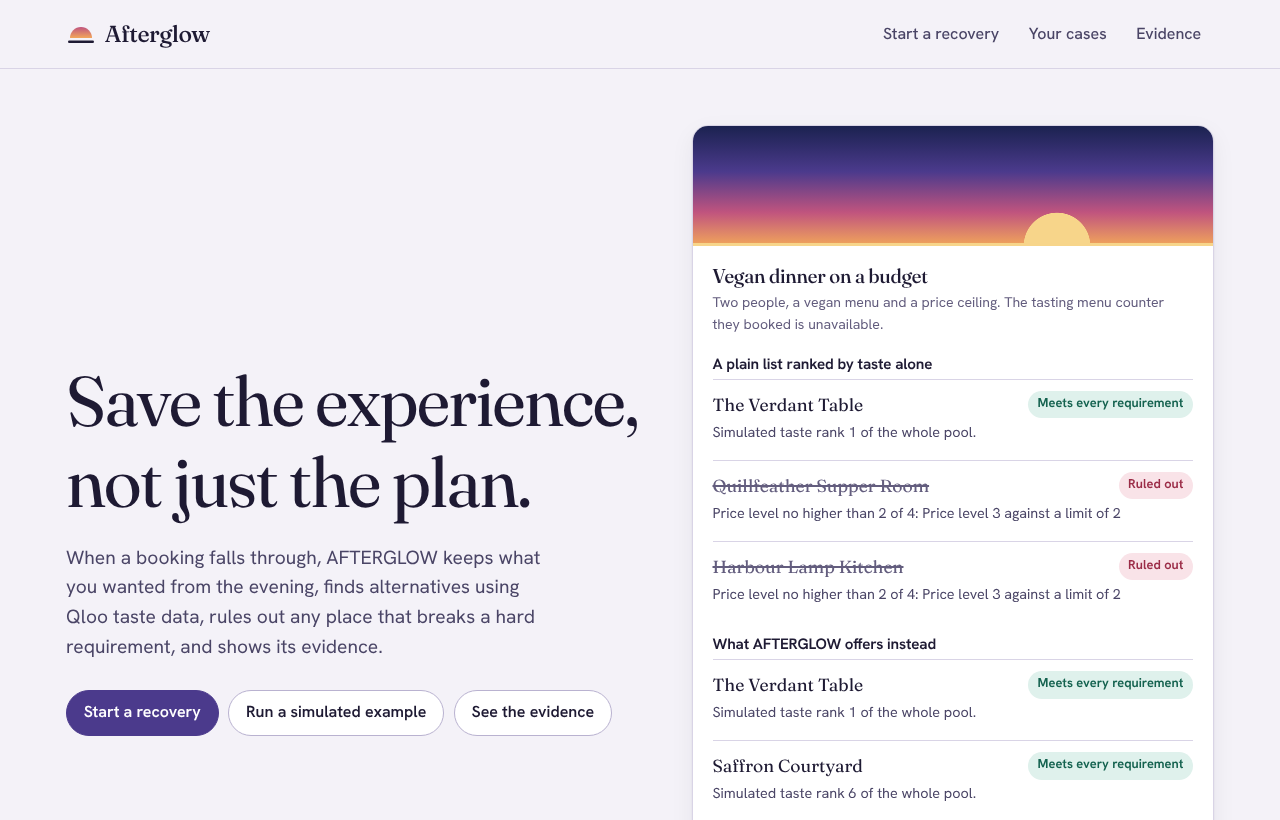
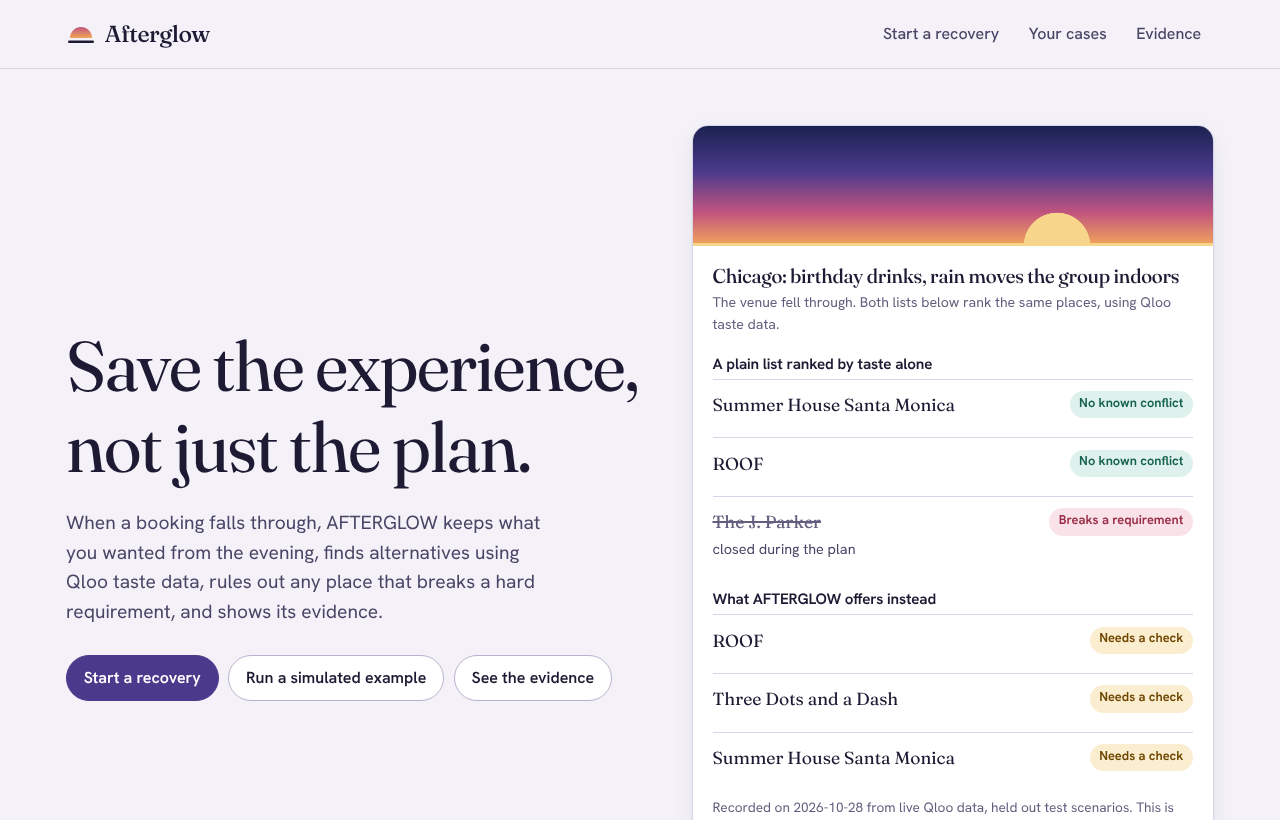
Rewrite the README around what the evidence shows and where it stops
The verification table is replaced by the held out comparison, its miss and its limits,
a shorter description of the method, and an index of the documentation. A test fails if
a figure in the README stops matching the recorded results. The screenshots are
refreshed and one of the baseline table is added.

diff --git a/tests/evaluation/readme-numbers.test.ts b/tests/evaluation/readme-numbers.test.ts
@@ -1,0 +1,61 @@
+import { readFileSync } from 'node:fs';
+import { resolve } from 'node:path';
+import { describe, expect, it } from 'vitest';
+import type { BaselineResultsFile } from '../../src/evaluation/baseline-report.js';
+
+const root = resolve(import.meta.dirname, '../..');
+const readme = readFileSync(resolve(root, 'README.md'), 'utf8').replace(/\s+/gu, ' ');
+const test = JSON.parse(
+  readFileSync(resolve(root, 'results/baselines-test.json'), 'utf8'),
+) as BaselineResultsFile;
+const s = test.summary;
+const two = (value: number | null | undefined) => (value ?? NaN).toFixed(2);
+const ungated = (arm: string) => s.arms.find((a) => a.arm === arm && !a.gated)?.violating;
+
+describe('README figures', () => {
+  it('match the recorded test comparison', () => {
+    const rate = (arm: string) => `${ungated(arm)?.count} of ${ungated(arm)?.total}`;
+    expect(readme).toContain(`${rate('taste_only')} scenarios for Qloo taste alone`);
+    expect(readme).toContain(`${rate('popular')} for popularity`);
+    expect(readme).toContain(`${rate('nearest')} for nearest first`);
+    expect(readme).toContain(`${rate('random')} for random`);
+    expect(readme).toContain(`${s.hits} of ${s.hits + s.misses + s.notEvaluated}`);
+    expect(s.misses).toBe(1);
+  });
+
+  it('match the answer changes and the lift', () => {
+    const nearest = s.topChoiceDiffers.nearest;
+    const popular = s.topChoiceDiffers.popular;
+    const taste = s.topChoiceDiffers.tasteOnly;
+    expect(readme).toContain(`from nearest first in ${nearest?.count} of ${nearest?.total}`);
+    expect(readme).toContain(`from popularity in ${popular?.count} of ${popular?.total}`);
+    expect(readme).toContain(
+      `In ${taste?.count} of ${taste?.total} scenarios the first place differs`,
+    );
+    const lift = s.paired.find((p) => p.versus === 'nearest' && p.measure === 'lift')?.difference;
+    expect(readme).toContain(
+      `${two(lift?.mean)} standard deviations above nearest first (${two(lift?.low)} to ${two(lift?.high)})`,
+    );
+    const km = s.paired.find((p) => p.versus === 'taste_only' && p.measure === 'km')?.difference;
+    expect(readme).toContain(`${two(-(km?.mean ?? NaN))} km closer`);
+  });
+
+  it('match the vibe shares', () => {
+    const row = (arm: string, gated: boolean) =>
+      s.arms.find((a) => a.arm === arm && a.gated === gated);
+    expect(readme).toContain(
+      `(${two(row('afterglow', true)?.vibe?.mean)} against ${two(row('nearest', true)?.vibe?.mean)})`,
+    );
+  });
+
+  it('match the lists with no verified place', () => {
+    const lists = test.results.map((r) => r.gated.afterglow).filter((l) => l !== null);
+    const none = lists.filter((l) => l.verified === 0).length;
+    expect(readme).toContain(`In ${none} of the ${lists.length} scenarios with a gated list`);
+  });
+
+  it('does not use dashes or emojis in prose', () => {
+    expect(readme).not.toMatch(/—|–/u);
+    expect(readme).not.toMatch(/\p{Extended_Pictographic}/u);
+  });
+});

diff --git a/README.md b/README.md
@@ -1,79 +1,70 @@
 # AFTERGLOW
 
+[![CI](https://github.com/hudasol/afterglow/actions/workflows/ci.yml/badge.svg)](https://github.com/hudasol/afterglow/actions/workflows/ci.yml)
+
 **Save the experience, not just the plan.**
 
-AFTERGLOW is a culturally intelligent experience recovery agent. When a booking falls through, a venue closes or the weather turns, it keeps what the plan was for, uses Qloo taste data to find alternatives, rules out any place that breaks a hard requirement, and shows the evidence behind every suggestion. It never books anything. A recovery is confirmed only when the person says so.
+When a booking falls through, a venue closes or the weather turns, AFTERGLOW keeps what the plan was for, uses [Qloo](https://qloo.com) taste data to find alternatives, rules out any place that breaks a hard requirement, and shows the evidence behind every suggestion. It never books anything. A recovery is confirmed only when the person says so.
 
+Hosted demo: https://afterglow-gsc4.onrender.com (free plan; the first request after a pause can take about half a minute).
 Built by Team Kanban (Huda Mueen Qureshi, Awaiz Ahmed) for the Qloo Agentic Hackathon.
 
-## Verification status
+![The landing page with a recorded example from live Qloo data](docs/screenshots/01-landing.png)
 
-This table states what has and has not been verified. It is updated whenever the facts change.
+## Why it exists
 
-| Item                                            | Status                                                                                                                                                                                                                                                                                                                                                                                                                                                                                 |
-| ----------------------------------------------- | -------------------------------------------------------------------------------------------------------------------------------------------------------------------------------------------------------------------------------------------------------------------------------------------------------------------------------------------------------------------------------------------------------------------------------------------------------------------------------------- |
-| Unit and integration tests                      | Passing (`npm test`)                                                                                                                                                                                                                                                                                                                                                                                                                                                                   |
-| Browser tests with accessibility checks         | Passing (`npm run test:e2e`)                                                                                                                                                                                                                                                                                                                                                                                                                                                           |
-| Type check, lint, formatting                    | Passing (`npm run check`)                                                                                                                                                                                                                                                                                                                                                                                                                                                              |
-| Continuous integration                          | Passing on GitHub Actions for commit fb9341b: checks, build and browser tests (`.github/workflows/ci.yml`)                                                                                                                                                                                                                                                                                                                                                                             |
-| Offline evaluation on the simulated catalogue   | Run, results in [docs/EVALUATION_RESULTS.md](docs/EVALUATION_RESULTS.md)                                                                                                                                                                                                                                                                                                                                                                                                               |
-| Live Qloo smoke test (`npm run qloo:smoke`)     | Run on 25 October 2026 from GitHub Actions with the team's personal key held as a repository secret. 16 requests, verdict **go**. Redacted report: [data/evaluation/smoke-2026-10-25.json](data/evaluation/smoke-2026-10-25.json)                                                                                                                                                                                                                                                      |
-| Live Qloo evaluation                            | Preregistered in [docs/PREREGISTRATION.md](docs/PREREGISTRATION.md) and run on real Qloo data over 20 scenarios in five cities. First run, the registered result: 9 of 12 predictions met and 3 missed, in [docs/EVALUATION_LIVE.md](docs/EVALUATION_LIVE.md). Second run, after two product fixes: the same 9 and 3, in [docs/EVALUATION_LIVE_SECOND_RUN.md](docs/EVALUATION_LIVE_SECOND_RUN.md). Notes on the misses: [docs/EVALUATION_LIVE_NOTES.md](docs/EVALUATION_LIVE_NOTES.md) |
-| OpenStreetMap place facts (`npm run osm:smoke`) | Implemented and tested with invented responses. **Not yet run successfully against real OpenStreetMap data.** The public Overpass servers did not answer from GitHub Actions on 25 October 2026. It needs no key. See [docs/OPENSTREETMAP.md](docs/OPENSTREETMAP.md)                                                                                                                                                                                                                   |
-| Hosted demo                                     | Deployed on Render from commit fb9341b at https://afterglow-gsc4.onrender.com, with live Qloo configured through a server side variable. On 25 October 2026 a live London case opened and ranked in 9 seconds on it, and its connection check was accepted by Qloo. Its OpenStreetMap check timed out. The free plan sleeps when idle, so the first request after a pause can take a minute                                                                                            |
+A plan that falls apart usually ends in a scramble: a list of nearby places ranked by popularity, some of which cannot work at all because they are closed, too far, too expensive or too small for the group. Recommenders rank by taste or popularity and treat practical needs as an afterthought. AFTERGLOW checks the requirements first, ranks what is left with Qloo, and says plainly when a fact is unknown.
 
-The live rows describe runs made by the team that wrote the method, on plans the team chose, and no people took part. They show how the pipeline behaves on real Qloo data and not how often it would help in general. Demo mode uses an invented catalogue and says so on every screen.
+## What the evidence shows
 
-## Screenshots
+The comparison was registered before it was run and judged by an independent oracle. On 20 scenarios in five cities that the product was not developed on (Chicago, Los Angeles, Berlin, Sydney, Toronto), all ranked from the same Qloo pools in one run on 28 October 2026:
 
-The case screenshots come from demo mode. The city, the venues and the taste scores are simulated, and every screen says so. The last one shows the recorded results of the live evaluation, which hold no venue data. None contains a credential or personal data.
+| Question                                                        | Result                                                                                                                                                                                                                                      |
+| --------------------------------------------------------------- | ------------------------------------------------------------------------------------------------------------------------------------------------------------------------------------------------------------------------------------------- |
+| Does a plain list put a place that breaks a requirement on top? | Without the gate, the top three held one in 18 of 20 scenarios for Qloo taste alone, 20 of 20 for popularity, 10 of 20 for nearest first and 18 of 20 for random. AFTERGLOW offered none in the 19 scenarios where it had a place to offer. |
+| Does the Qloo signal change the answer?                         | The top choice differs from nearest first in 14 of 19 scenarios and from popularity in 15 of 19. The Qloo affinity of the top three is 0.74 standard deviations above nearest first (0.51 to 0.97).                                         |
+| Does blending closeness change what Qloo alone would choose?    | In 6 of 19 scenarios the first place differs. **This missed its prediction** of at most 20 percent. The cost in affinity is small and the list is 0.43 km closer on average.                                                                |
+| Were the predictions met?                                       | 13 of 14, one missed, all reported in [docs/EVALUATION_BASELINES_TEST.md](docs/EVALUATION_BASELINES_TEST.md).                                                                                                                               |
 
-| Landing                                                                                               | Recovery                                                                                          |
-| ----------------------------------------------------------------------------------------------------- | ------------------------------------------------------------------------------------------------- |
-| ![Landing page with a gate result from the simulated catalogue](docs/screenshots/01-landing.png)      | ![A shortlist of places that passed the gate](docs/screenshots/03-recovery.png)                   |
-| **A place ruled out, with the reason**                                                                | **Taste On against Taste Off**                                                                    |
-| ![A place ruled out with the exact requirement it failed](docs/screenshots/04-ruled-out.png)          | ![Order with and without taste over the same eligible places](docs/screenshots/05-comparison.png) |
-| **What the agent observed, did and decided**                                                          | **What was sent to the taste provider**                                                           |
-| ![The agent trace of a search cycle](docs/screenshots/07-agent-trace.png)                             | ![The evidence page listing the redacted request](docs/screenshots/06-evidence.png)               |
-| **Preregistered live evaluation, with its misses**                                                    |                                                                                                   |
-| ![Predictions and results of the two live runs on Qloo data](docs/screenshots/08-live-evaluation.png) |                                                                                                   |
+What this does not show, and the notes say so at length in [docs/EVALUATION_BASELINES_NOTES.md](docs/EVALUATION_BASELINES_NOTES.md):
 
-## The problem
+- No person judged any list, so nothing here says that a group would enjoy a place more because AFTERGLOW offered it.
+- A language model with no Qloo data is not among the baselines, so it is not known whether AFTERGLOW outperforms one.
+- The same team wrote the method and chose the scenarios.
+- Most offered places still need the person's check. In 11 of the 19 scenarios with a gated list none of the three places was fully verified, because Qloo states opening hours, step free access and dietary options for only part of its places.
+- In one Los Angeles scenario all 40 places failed a requirement, so the gate left nothing to offer.
+- The requested vibe appears in the top three about as often as it does in a nearest first list (0.11 against 0.08).
 
-A plan that falls apart usually ends with a scramble: a list of nearby places ranked by popularity, none of which feel like the evening that was planned, and some of which cannot work at all because they are too far, too expensive, closed, or unable to seat the group. Recommendation lists optimise for taste or popularity and treat practical needs as an afterthought.
+The earlier evaluation of the pipeline on real Qloo data, with its three missed predictions, is in [docs/EVALUATION_LIVE.md](docs/EVALUATION_LIVE.md).
 
-## How AFTERGLOW works
+## How it works
 
-1. **Intent Anchor.** The person describes the plan once: the occasion, the party, the time, what must survive, what the group likes, and the hard requirements. This is recorded as a fixed anchor and is never edited. Later disruptions and decisions are layered on top.
-2. **Qloo Taste Engine.** Names and vibes the group likes are matched to Qloo entities and tags. An exact match resolves. Anything else is shown to the person to choose from, and an uncertain match is never passed on.
-3. **Feasibility Gate.** Every candidate is checked against every hard requirement and receives a verdict for each one: pass, fail or unknown. A failure rules the place out. An unknown never passes. It becomes a question for the person. The gate is identical whether or not taste is used.
-4. **Recovery Orchestrator.** Disruptions, the person's own checks, declined options and relaxations are recorded as events on the case. When no place meets every requirement, AFTERGLOW offers the smallest sets of requirements the person could give up and waits for agreement.
-5. **Agent trace.** Every search cycle is shown as what the agent observed, planned, did and decided, and where it handed the decision back to the person. It is rebuilt from the recorded events. AFTERGLOW follows a fixed procedure and is not a chat model.
-6. **Persistent case history.** Each case is an append only event log in SQLite. The history tab shows every step in plain language.
+1. **Intent anchor.** The person describes the plan once: the occasion, the party, the time, what must survive, what the group likes and the hard requirements. It is recorded and never edited. Disruptions and decisions are layered on top.
+2. **Taste signals.** Names and vibes the group likes are matched to Qloo entities and tags. An exact match resolves. Anything else is shown to the person to choose from, and an uncertain match is never passed on.
+3. **Feasibility gate.** Every candidate is checked against every hard requirement and gets pass, fail or unknown. A fail rules the place out. An unknown never passes: it becomes a question for the person.
+4. **Orderings.** The eligible places are shown in three orders: nearest first, most popular first, and Taste On, which blends Qloo affinity with closeness. The pool and the gate are the same for all three.
+5. **Recovery.** Disruptions, the person's own checks, declined options and relaxations are recorded as events on the case. When no place meets every requirement, AFTERGLOW offers the smallest sets of requirements the person could give up and waits for agreement.
+6. **Agent trace.** Every search cycle is shown as what the agent observed, planned, did and decided, and where it handed the decision back. It is rebuilt from the recorded events. AFTERGLOW follows a fixed procedure and is not a chat model.
 
-Each fact in the interface carries a source tag: Qloo, OpenStreetMap, Simulated, You said, You checked, or Calculated here.
+Each fact in the interface carries a source tag: Qloo, OpenStreetMap, Simulated, You said, You checked or Calculated here. Demo mode uses an invented city and says so on every screen.
+
+| Recovery                                                                        | A place ruled out, with the reason                                                           |
+| ------------------------------------------------------------------------------- | -------------------------------------------------------------------------------------------- |
+| ![A shortlist of places that passed the gate](docs/screenshots/03-recovery.png) | ![A place ruled out with the exact requirement it failed](docs/screenshots/04-ruled-out.png) |
 
 ## Where Qloo is used
 
-- `/search` resolves names the group likes, and the venue that fell through, which is used as a taste signal so the search looks for places that share its audience. The person can turn this off.
-- `/v2/tags` with semantic search resolves vibes and genres, and the venue category tag.
-- `/v2/insights` returns the candidate places for a city, and ranks a fixed list of places by affinity to the group's signals and to the lost venue, with explainability when it is available.
+- `/search` resolves names the group likes, and the venue that fell through, which can serve as a taste signal so the search looks for places that share its audience.
+- `/v2/tags` resolves vibes and genres and the venue category tag.
+- `/v2/insights` returns the candidate places for a city, with the facts Qloo states for each, and ranks a fixed list of places by affinity to the group's signals. Each vibe is sent as up to three example places that carry it, because a bare tag gave every place the same score.
 
-Qloo results describe what groups of people tend to like. AFTERGLOW presents them that way and does not treat an affinity as a prediction about any person. The full workflow, parameters and data handling are in [docs/QLOO_INTEGRATION.md](docs/QLOO_INTEGRATION.md).
-
-## Where OpenStreetMap is used
-
-Qloo states opening hours, a wheelchair accessible entrance and dietary options for part of the places it returns, and AFTERGLOW reads exactly those. It does not state group capacity or covered seating. For live cases, and only for facts a plan insists on that Qloo left unknown, AFTERGLOW can look at OpenStreetMap by matching each place by name and position. A value is used only when it is clearly stated, it carries the tag it was read from, it never replaces a fact you checked, and a failure leaves the fact unknown. Only the public coordinates of venues are sent. Details, limits and the licence credit are in [docs/OPENSTREETMAP.md](docs/OPENSTREETMAP.md).
+Qloo describes what groups of people tend to like. AFTERGLOW presents affinities that way and never as a prediction about a person. Workflow, parameters and data handling: [docs/QLOO_INTEGRATION.md](docs/QLOO_INTEGRATION.md). OpenStreetMap can fill facts that Qloo leaves unknown for live cases. That lookup is implemented and tested with invented responses and has not yet run successfully against real data: [docs/OPENSTREETMAP.md](docs/OPENSTREETMAP.md).
 
 ## Use it from an MCP client
 
-The same workflow is available as MCP tools over stdio, so a model can open a case, ask the person the questions the gate raises, and record their answers. The rules are enforced by the application: unknown never passes, only the person's own word settles a fact, and nothing is booked. See [docs/MCP.md](docs/MCP.md).
+The same workflow is available as MCP tools over stdio, so a model can open a case, ask the person the questions the gate raises and record their answers. The rules are enforced by the application: unknown never passes, only the person's own word settles a fact, and nothing is booked. See [docs/MCP.md](docs/MCP.md).
 
-## Taste On and Taste Off
-
-For every case the interface can show three orderings of the same eligible places. Nearest first sorts by distance to the original venue, then price. Most popular first sorts by the provider's general popularity and uses none of the group's signals, which is what a plain list of well known places does. Taste On sorts by a recovery score that blends taste with closeness. The pool, the gate and the exclusions are identical in all three, so the only difference is the ordering rule. See [docs/EVALUATION.md](docs/EVALUATION.md) for the method and what it can and cannot show.
-
-## Quick start
+## Run it
 
 Requirements: Node.js 22.13 or newer. No other service is needed.
 
@@ -85,20 +76,11 @@ npm run build
 npm start
 ```
 
-Open http://127.0.0.1:8788. With no Qloo key the application runs in demo mode only, using the labelled simulated catalogue.
+Open http://127.0.0.1:8788. With no Qloo key the application runs in demo mode on the simulated catalogue. For development with reload run `npm run dev` and open http://127.0.0.1:5173.
 
-For development with hot reload run `npm run dev`, then open http://127.0.0.1:5173.
+To use live Qloo, request a hackathon key, copy `.env.example` to `.env` and set `QLOO_API_KEY`. Keys are personal: never commit or share one. The key is read only by the server and is never sent to the browser or written to a log or report. `npm run qloo:smoke` checks that it works.
 
-### Using live Qloo
-
-1. Request a hackathon key through the form on the Qloo hackathon page. Keys are personal. Never commit or share one.
-2. Copy `.env.example` to `.env` and set `QLOO_API_KEY`. The file is ignored by Git.
-3. Run `npm run qloo:smoke`. It checks that the key works, that entity and tag matching behave, and that rankings respond to different signals. It prints a verdict and writes a redacted report to `data/evaluation`.
-4. Restart the server. The Live Qloo option becomes available on the intake screen.
-
-The key is read only by the server. It is never sent to the browser, logged, or written to a report.
-
-## Configuration
+### Configuration
 
 | Variable                          | Default                          | Purpose                                                                                |
 | --------------------------------- | -------------------------------- | -------------------------------------------------------------------------------------- |
@@ -118,22 +100,21 @@ The key is read only by the server. It is never sent to the browser, logged, or 
 | `AFTERGLOW_CASE_TTL_HOURS`        | `48`                             | How long idle cases are kept                                                           |
 | `SERVE_WEB`                       | `true`                           | Serve the built interface from the API server                                          |
 
-## Commands
+OpenStreetMap variables are listed in `.env.example`.
 
-| Command              | What it does                                          |
-| -------------------- | ----------------------------------------------------- |
-| `npm run dev`        | API server and web dev server with reload             |
-| `npm run build`      | Build the interface to `web/dist`                     |
-| `npm start`          | Run the server                                        |
-| `npm test`           | Unit and integration tests                            |
-| `npm run test:e2e`   | Browser tests, including accessibility checks         |
-| `npm run check`      | Type check, lint, formatting check and tests          |
-| `npm run mcp`        | MCP server over stdio. See [docs/MCP.md](docs/MCP.md) |
-| `npm run eval`       | Offline evaluation on the simulated catalogue         |
-| `npm run qloo:smoke` | Live Qloo experiment. Needs `QLOO_API_KEY`            |
-| `npm run osm:smoke`  | Real data check for OpenStreetMap place facts. No key |
+### Commands
 
-Browser tests download nothing at run time but need a Playwright Chromium. If your Chromium is installed elsewhere, set `PLAYWRIGHT_CHROMIUM_PATH` to its executable.
+| Command                                | What it does                                                    |
+| -------------------------------------- | --------------------------------------------------------------- |
+| `npm run dev`                          | API server and web dev server with reload                       |
+| `npm run check`                        | Type check, lint, formatting check and tests                    |
+| `npm run test:e2e`                     | Browser tests, including accessibility checks                   |
+| `npm run mcp`                          | MCP server over stdio                                           |
+| `npm run eval`                         | Offline evaluation on the simulated catalogue                   |
+| `npm run eval:baselines -- --run test` | Baseline comparison on the test scenarios. Needs `QLOO_API_KEY` |
+| `npm run qloo:smoke`                   | Live Qloo experiment. Needs `QLOO_API_KEY`                      |
+
+Browser tests need a Playwright Chromium. If yours is installed elsewhere, set `PLAYWRIGHT_CHROMIUM_PATH` to its executable.
 
 ## Project layout
 
@@ -143,33 +124,43 @@ src/application     Use cases and the taste provider port
 src/infrastructure  Configuration, SQLite and repositories
 src/qloo            Qloo client, matching, normalisation and the live provider
 src/simulation      The labelled simulated catalogue, provider and scenarios
-src/evaluation      Independent oracle, evaluation runner and report writer
-src/interfaces/http The Express API and static serving
-src/interfaces/mcp  The MCP server and its compact case summary
+src/evaluation      Independent oracle, evaluation runners, baselines and reports
+src/interfaces      The Express API and the MCP server
 web                 React interface
 e2e                 Browser tests
-docs                Integration, architecture, evaluation, deployment and limits
+evaluation          Frozen scenario files
+results             Recorded results, written by commands and never edited by hand
+docs                Integration, architecture, evaluation, decisions and limits
 ```
 
-The domain layer imports nothing from the outer layers and performs no input or output. A lint rule enforces this.
+The domain layer imports nothing from the outer layers and performs no input or output, and ESLint enforces it. See [docs/ARCHITECTURE.md](docs/ARCHITECTURE.md) and the [decision records](docs/adr/README.md).
+
+## Documentation
+
+| Topic                                             | Where                                                                                                                                                                                            |
+| ------------------------------------------------- | ------------------------------------------------------------------------------------------------------------------------------------------------------------------------------------------------ |
+| Baseline comparison: registration, results, notes | [PREREGISTRATION_V2](docs/PREREGISTRATION_V2.md), [results](docs/EVALUATION_BASELINES_TEST.md), [notes](docs/EVALUATION_BASELINES_NOTES.md), [development set](docs/EVALUATION_BASELINES_DEV.md) |
+| Earlier live evaluation of the pipeline           | [PREREGISTRATION](docs/PREREGISTRATION.md), [first run](docs/EVALUATION_LIVE.md), [second run](docs/EVALUATION_LIVE_SECOND_RUN.md), [notes](docs/EVALUATION_LIVE_NOTES.md)                       |
+| Method of the offline evaluation                  | [docs/EVALUATION.md](docs/EVALUATION.md)                                                                                                                                                         |
+| Limits of what is established                     | [docs/LIMITATIONS.md](docs/LIMITATIONS.md)                                                                                                                                                       |
+| Deployment on Render                              | [docs/DEPLOYMENT.md](docs/DEPLOYMENT.md)                                                                                                                                                         |
+| Responsible use and data handling                 | [docs/RESPONSIBLE_USE.md](docs/RESPONSIBLE_USE.md)                                                                                                                                               |
+| Hackathon submission text                         | [docs/SUBMISSION.md](docs/SUBMISSION.md)                                                                                                                                                         |
+| Contributing, changes and security                | [CONTRIBUTING.md](CONTRIBUTING.md), [CHANGELOG.md](CHANGELOG.md), [SECURITY.md](SECURITY.md)                                                                                                     |
 
 ## Known limitations
 
 The full list is in [docs/LIMITATIONS.md](docs/LIMITATIONS.md). The most important points:
 
-- The live Qloo path was exercised on 25 October 2026 by a smoke test and by a preregistered evaluation run twice. Three of the 12 predictions were missed in both runs. In particular, when a plan sends only vibe tags, Qloo gave every place the same taste score in all five such scenarios, and the order then follows distance. The application says so beside the shortlist.
-- Qloo states opening hours for about 70 percent of the places in the evaluation pools, step free access for about 74 percent and a dietary fact for about 63 percent where one was needed. Group capacity and covered seating are never stated. OpenStreetMap can fill some gaps where volunteers have tagged a matching place, and that lookup has not yet been run against real data. Everything else stays unknown until the person checks it. The gate treats unknown as not passing.
-- The offline evaluation uses an invented, hand authored catalogue. It shows how the pipeline behaves. It is not evidence about the quality of Qloo recommendations.
+- Facts that Qloo does not state stay unknown until the person checks them. Group capacity and covered seating are never stated.
+- The candidate pool comes from a search over the whole city, so a tight distance limit can leave few places or none.
+- Nothing measures whether Qloo affinity predicts what a person will enjoy, and no person took part in any evaluation.
+- Cases are tied to a browser by a random identifier. There are no accounts, and the hosted demo keeps cases only temporarily.
 - AFTERGLOW does not book, call or message anyone. Confirmed means the person said so.
-- Cases are tied to a browser through a random identifier. There are no accounts.
 
 ## Responsible use
 
-See [docs/RESPONSIBLE_USE.md](docs/RESPONSIBLE_USE.md). In short: only the city, the venue category, public taste names and phrases, and the original venue name, when it is used as a taste signal or a distance limit needs it, are sent to Qloo. Titles, party sizes, notes and times stay on the server. Qloo affinities are never presented as predictions about an individual.
-
-## Submission
-
-The hackathon submission text, covering the six requested items, is in [docs/SUBMISSION.md](docs/SUBMISSION.md).
+Only the city, the venue category, public taste names and phrases, and the original venue name, when it is used as a taste signal or a distance limit needs it, are sent to Qloo. Titles, party sizes, notes and times stay on the server. See [docs/RESPONSIBLE_USE.md](docs/RESPONSIBLE_USE.md).
 
 ## License
 
